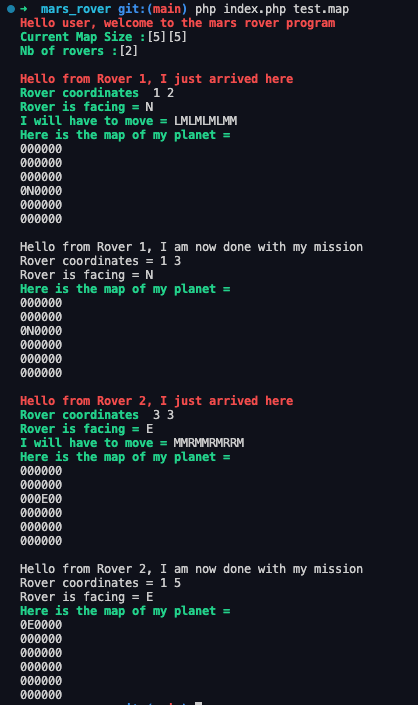
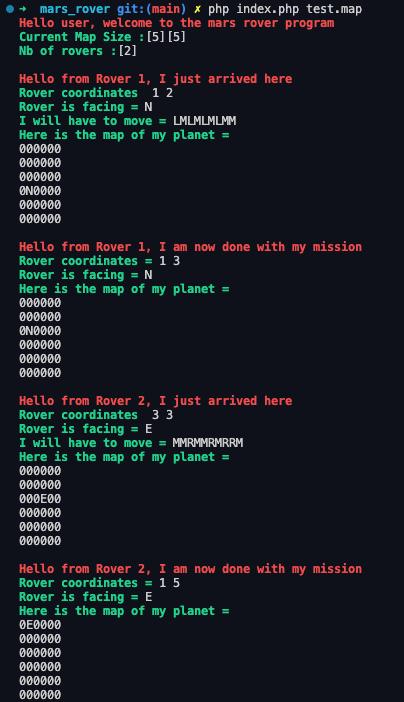
fixed the output color problem and changed the output.png

Changed region(s): [[0.0297, 0.0, 0.8911, 1.0], [0.4455, 0.9872, 0.505, 1.0], [0.0297, 0.0299, 0.0594, 0.0897]]

diff --git a/mars_rover.php b/mars_rover.php
@@ -57,9 +57,9 @@ class mars_rover{
 	}
 
 	private function announce_yourself_end(){
-		echo "\nHello from Rover " . $this->rover_name . ", I am now done with my mission ". "\n" ;
-		echo "Rover coordinates = ". $this->coordinate[0] . " " .  $this->coordinate[1]. "\n";
-		echo "Rover is facing = ". $this->direction[0] . " " . "\n";
+		echo "\n\033[01;31mHello from Rover " . $this->rover_name . ", I am now done with my mission ". "\n\033[0m" ;
+		echo "\033[01;32mRover coordinates = \033[0m". $this->coordinate[0] . " " .  $this->coordinate[1]. "\n";
+		echo "\033[01;32mRover is facing = \033[0m". $this->direction[0] . " " . "\n";
 	}
 
 	private function set_position($position){
